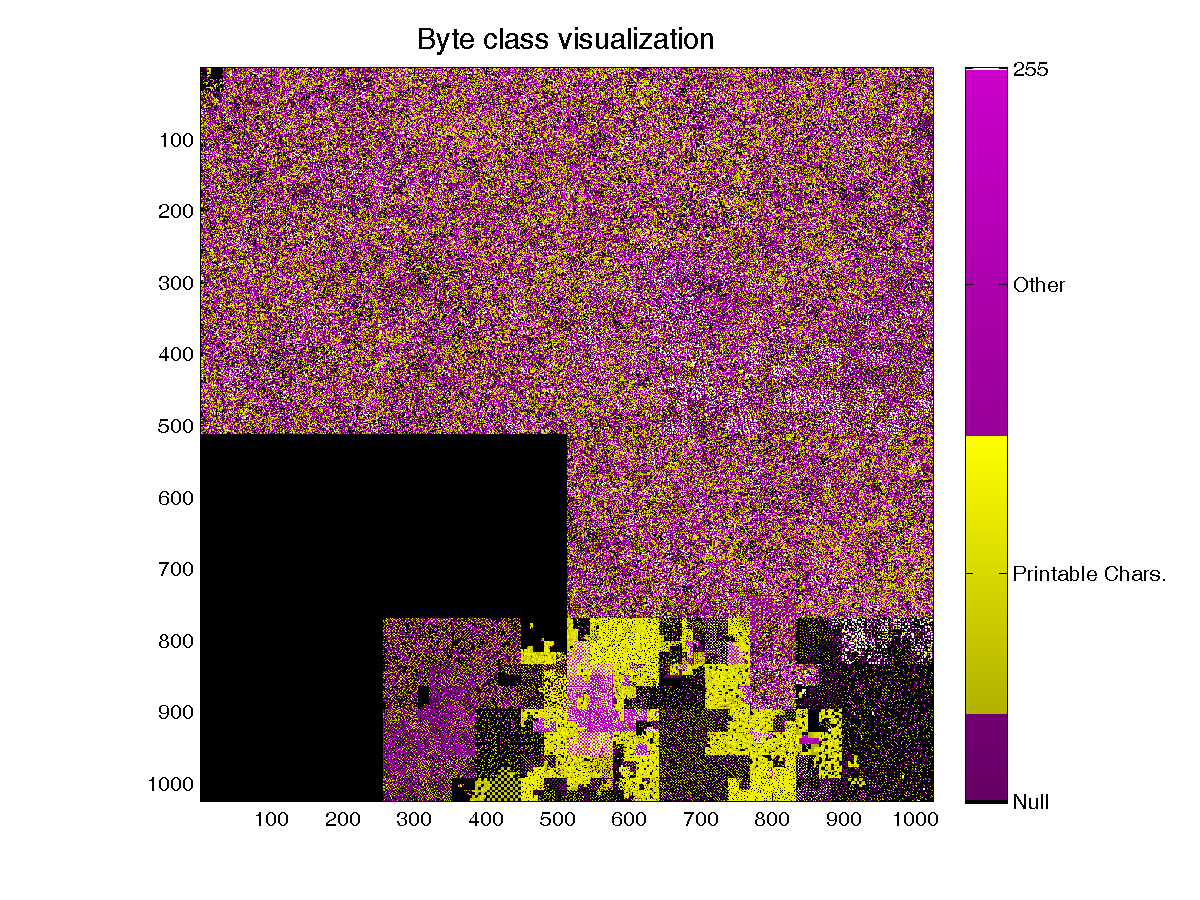
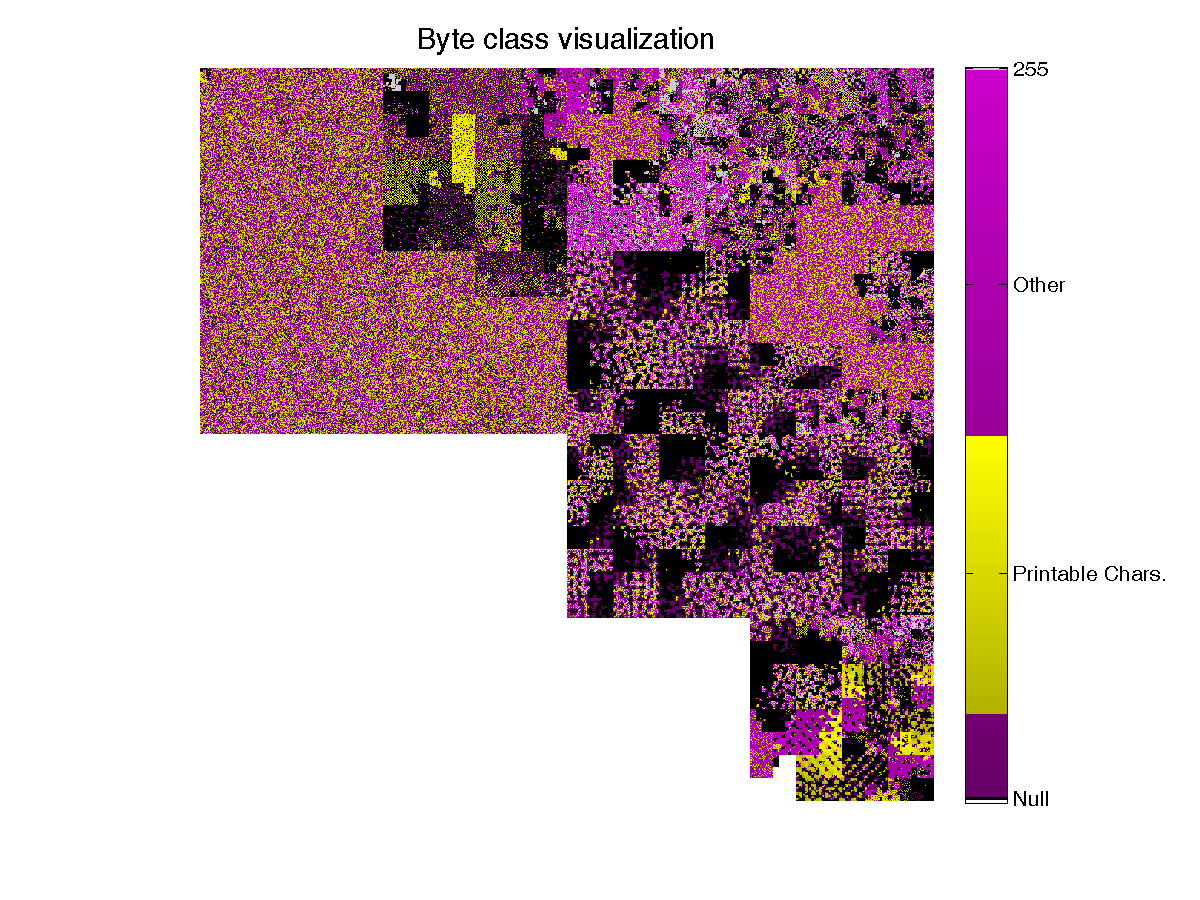
Updated byte class visualization colors for unused space. Pre-allocated space for Hilbert efficiency.

diff --git a/visualize/visualizeBytes.m b/visualize/visualizeBytes.m
@@ -8,9 +8,10 @@ G = linspace(0.0,0.0,255);
 B = linspace(0.4,0.8,255);
 cmap = [R' G' B'];
 % Black for zero
-cmap(1,:) = [0 0 0];
+cmap(1,:) = [1 1 1];
+cmap(2,:) = [0 0 0];
 % White for 255
-cmap(end,:) = [1 1 1];
+cmap(end,:) = [0.8 0.8 0.8];
 R = linspace(0.7,1.0,96);
 G = linspace(0.7,1.0,96);
 B = linspace(0.0,0.0,96);
@@ -18,9 +19,10 @@ cmap(32:127,:) = [R' G' B'];
 colormap(cmap);
 image(Hbytes);
 axis square
+axis off;
 colorbar;
 hcb=colorbar;
-set(hcb,'YTick',[1, 80, 180, 255])
+set(hcb,'YTick',[2, 80, 180, 255])
 set(hcb,'YTickLabel',{'Null','Printable Chars.','Other','255'});
 title('Byte class visualization','FontSize',14);
 

diff --git a/transform/hilbertTransform.m b/transform/hilbertTransform.m
@@ -19,8 +19,9 @@ end
 x = round((x./max(x)+1)/2*(2^sz-1)) + 1;
 y = round((y./max(y)+1)/2*(2^sz-1)) + 1;
 
+dim = sqrt(length(x));
+Z = zeros(dim,dim);
 for i = 1:length(A)
-    Z(x(i),y(i)) = A(i);
+    Z(x(i),y(i)) = A(i)+2;
 end
-
 end

diff --git a/testMethods.m b/testMethods.m
@@ -74,7 +74,7 @@ visualizeNgram(trigram);
 
 %% Hilbert/Entropy
 
-filename = 'files/vi.exe';
+filename = 'files/explorer.exe';
 
 bitDepth = 8;
 bitFormat = ['uint' num2str(bitDepth)];
